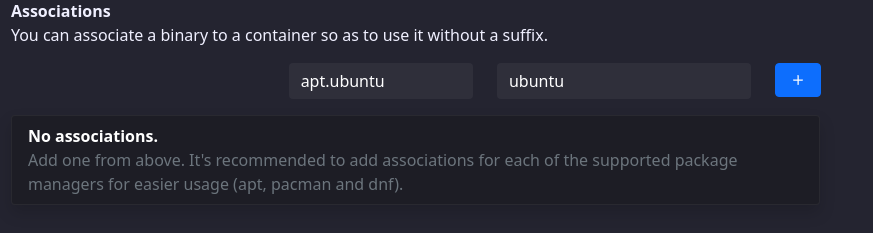
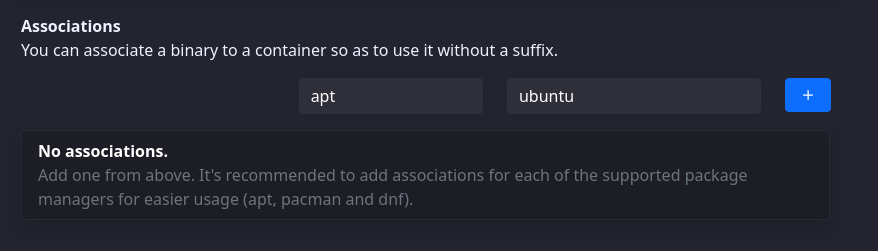
fix a lot of images and the waydroid section

diff --git a/guides/Container Management Guide/index.md b/guides/Container Management Guide/index.md
@@ -65,7 +65,13 @@ On the bottom, you'll notice you can make **binary assosications**. These allow 
 ![blend-a](./blend-a.png)
 <div class="gap"></div>
   
-In blendOS, binaries are run like this: `(BINARY_NAME).(CONTAINER_NAME)` (ex. `apt.ubuntu`).  
+In blendOS, binaries are run like this:
+
+```
+(BINARY_NAME).(CONTAINER_NAME) 
+
+(ex. apt.ubuntu)  
+```
 
 But, if we want to run a binary without the stupid suffix, we can use a **Binary assosciation** to make our lives easier. For our example, we want to make `apt.ubuntu` into `apt` and `dnf.fedora` to `dnf`
 
@@ -92,6 +98,13 @@ In the container manager there is a Waydroid button 👀
 This button allows you to run android apps on Linux via containerization!
 
 The moment you press this button, it will initialize waydroid and let you pick one of two app stores.
+
+![blend-waydroid](./blend-w.png)
+<div class="gap"></div>
+
+After it initalizes (and you enter your password several times), you should see this:
+
+![blend-w-2](./blend-w-2.png)
 
 ===============================================================
 
